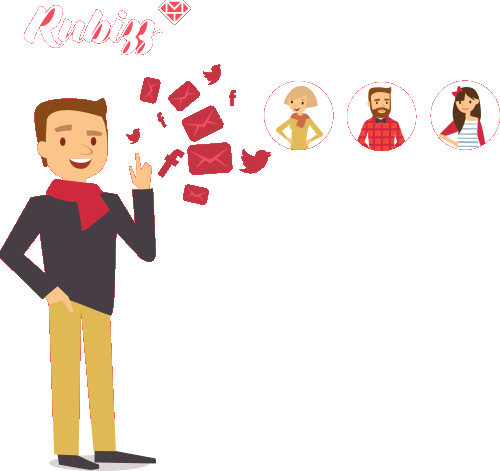
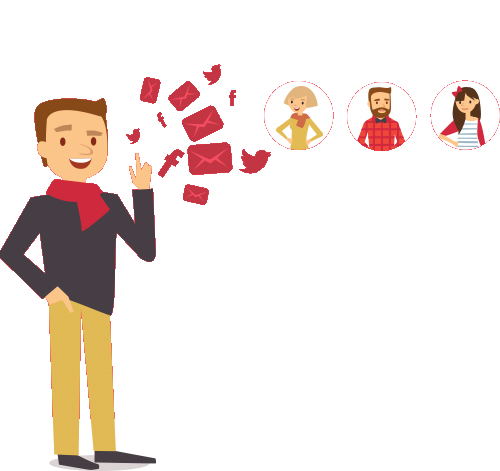
mise en place nouveau menu accueil + page logout

Changed region(s): [[0.06, 0.0, 0.33, 0.1189], [0.3, 0.0, 0.39, 0.0594]]

diff --git a/src/Web/WebBundle/Resources/public/css/default/index/index.scss b/src/Web/WebBundle/Resources/public/css/default/index/index.scss
@@ -11,22 +11,31 @@
 // ==== Header ====
 body { margin:0; }
 // ==== En tête ====
-
-/*#header_RBZ_header {
+#div_RBZ_header {
+    .RBZ_wrapper {
+        margin: 0 auto;
+        width: 1220px;
+    }
     position: fixed;
     top: 0;
     width: 100%;
     z-index: 150;
     background-color: $red-banner;
+
     span.RBZ_nowrap { display:inline-block; white-space:nowrap; font-weight:normal; }
     #div_RBZ_banner {
-        position:relative; background-image:url(/bundles/webweb/images/global/logo.png);
-        &.RBZ_wrapper { max-width:960px; width:auto; }
+        position:relative; background: url(/bundles/webweb/images/global/logo.png) 0 20px no-repeat;
+        height: 100px;
+        &.RBZ_wrapper { max-width:1220px; width:auto; }
+        #img_RBZ_headerBeta {
+            position: absolute;
+            left: 150px;
+            top: 55px;
+        }
         #div_RBZ_headerMenu {
             position:absolute; top:35px; right:20px; color:#353537;
             a {
-                color:$white; font-size:16px;
-                font-family: "Open Sans",sans-serif;
+                color:white; text-decoration:none; font-family:'Open Sans',sans-serif; font-size:16px; font-weight:600;
                 &:hover { text-decoration:underline; }
             }
             div.RBZ_menuVBar {
@@ -35,29 +44,18 @@ body { margin:0; }
             }
         }
     }
-    #div_RBZ_navWrapperLogOut {
-        background-color: #3f3f3f;
-        box-shadow: 0 -2px 4px rgba(0, 0, 0, 0.36);
-        height: 15px;
-    }
-}*/
+}
 #header_RBZ_default_header {
+    margin-top: 50px;
     height:865px;
     background:white url(/bundles/webweb/images/default/index/header_bg.png) repeat-x left top;
     #div_RBZ_headerInside {
         position:relative; max-width:1220px; height:865px; margin-left:auto; margin-right:auto;
         #img_RBZ_headerGuy { float:left; margin-top:13px; }
-        #img_RBZ_headerGuyPad, #img_RBZ_headerGuyPhone { display:none; }
+        #img_RBZ_headerGuyPad { display:none; }
         #img_RBZ_headerBeta { position:absolute; top:60px; left:165px; }
         #div_RBZ_headerText {
             float:right; position:relative; text-align:center;
-            #div_RBZ_headerLogin {
-                position:absolute; top:45px; right:10px; color:white;
-                a {
-                    color:white; text-decoration:none; font-family:'Open Sans',sans-serif; font-size:16px; font-weight:600;
-                    &:hover { text-decoration:underline; }
-                }
-            }
             p {
                 margin-bottom:20px; margin-top:205px;
                 font-family:'Nunito',sans-serif; font-size:48px; font-weight:bold; color:white; text-align:center; line-height:55px;
@@ -249,6 +247,26 @@ body.RBZ_fr {
 // ==== Responsive : iPhone ====
 // =============================
 @media (max-width: 560px) {
+    // ---- Menu fixe ----
+    #div_RBZ_header {
+        #div_RBZ_banner {
+            background: url(/bundles/webweb/images/default/index/phone/header.png) 0px 20px no-repeat;
+            height: 100px; background-position: center;
+            #img_RBZ_headerBeta {
+                display: none;
+            } 
+            #div_RBZ_headerMenu {
+                position:static; padding-top:70px; text-align:center;
+                a {
+                    font-size:12px; font-weight:600;
+                }
+                div.RBZ_menuVBar {
+                    display:inline-block; width:0px; height:10px; margin:0px 10px;
+                    border-right:1px solid $white; border-left:1px solid $white;
+                }
+            }
+        }
+    }
     // ---- Header ----
     #header_RBZ_default_header {
         height:auto;
@@ -257,19 +275,15 @@ body.RBZ_fr {
             height:auto; text-align:center; padding-top:10px;
             #img_RBZ_headerGuy { display:none; }
             #img_RBZ_headerGuyPad { display:none; }
-            #img_RBZ_headerGuyPhone { display:block; margin-left:auto; margin-right:auto; margin-top:10px; }
+            //#img_RBZ_headerGuyPhone { display:block; margin-left:auto; margin-right:auto; margin-top:50px; }
             #img_RBZ_headerBeta { display:none; }
             #div_RBZ_headerText {
                 float:none; position:relative; top:auto; right:auto;
-                p { font-size:24px; line-height:28px; margin-bottom:0px; margin-top:20px; }
+                p { font-size:24px; line-height:28px; margin-bottom:0px; margin-top:50px; }
                 #a_RBZ_subscribe {
                     width:274px; height:72px; margin-left:0px; margin-top:30px; line-height:55px; font-size:24px;
                     background:url(/bundles/webweb/images/default/index/phone/button.png) no-repeat left top;
                     span { margin-right:0px; }
-                }
-                #div_RBZ_headerLogin {
-                    position:relative; top:auto; right:auto; margin-top:5px;
-                    a { font-size:12px; }
                 }
             }
             #div_RBZ_headerHow {

diff --git a/src/Web/WebBundle/Resources/public/css/global/layoutPageOut.scss b/src/Web/WebBundle/Resources/public/css/global/layoutPageOut.scss
@@ -14,11 +14,15 @@
     #div_RBZ_banner {
         position:relative; background-image:url(/bundles/webweb/images/global/logo.png);
         &.RBZ_wrapper { max-width:960px; width:auto; }
+        #img_RBZ_headerBeta {
+            position: absolute;
+            left: 150px;
+            top: 55px;
+        }
         #div_RBZ_headerMenu {
             position:absolute; top:35px; right:20px; color:#353537;
             a {
-                color:$white; font-size:16px;
-                font-family: "Open Sans",sans-serif;
+                color:white; text-decoration:none; font-family:'Open Sans',sans-serif; font-size:16px; font-weight:600;
                 &:hover { text-decoration:underline; }
             }
             div.RBZ_menuVBar {
@@ -26,11 +30,6 @@
                 border-right:1px solid $white; border-left:1px solid $white;
             }
         }
-    }
-    #div_RBZ_navWrapperLogOut {
-        background-color: #3f3f3f;
-        box-shadow: 0 -2px 4px rgba(0, 0, 0, 0.36);
-        height: 15px;
     }
 }
 
@@ -89,20 +88,31 @@
         }
     }
 }
+
+@media (max-width: 560px) {
+    // ---- Menu fixe ----
+    #header_RBZ_header {
+        #div_RBZ_banner {
+            background: url(/bundles/webweb/images/default/index/phone/header.png) 0px 20px no-repeat;
+            height: 100px;  background-position: center;
+            #img_RBZ_headerBeta {
+                display: none;
+            } 
+            #div_RBZ_headerMenu {
+                position:static; padding-top:70px; text-align:center;
+                a {
+                    font-size:12px; font-weight:600;
+                }
+                div.RBZ_menuVBar { height:10px; margin:0px 10px; }
+            }
+        }
+    }
+}
+
 @media (max-width: 480px) {
     #header_RBZ_header {
         #div_RBZ_banner {
             height:90px;
-        }
-    }
-}
-@media (max-width: 550px) {
-    #header_RBZ_header {
-        #div_RBZ_banner {
-            height:110px;
-            #div_RBZ_headerMenu {
-                position:static; padding-top:65px; text-align:center;
-            }
         }
     }
 }
